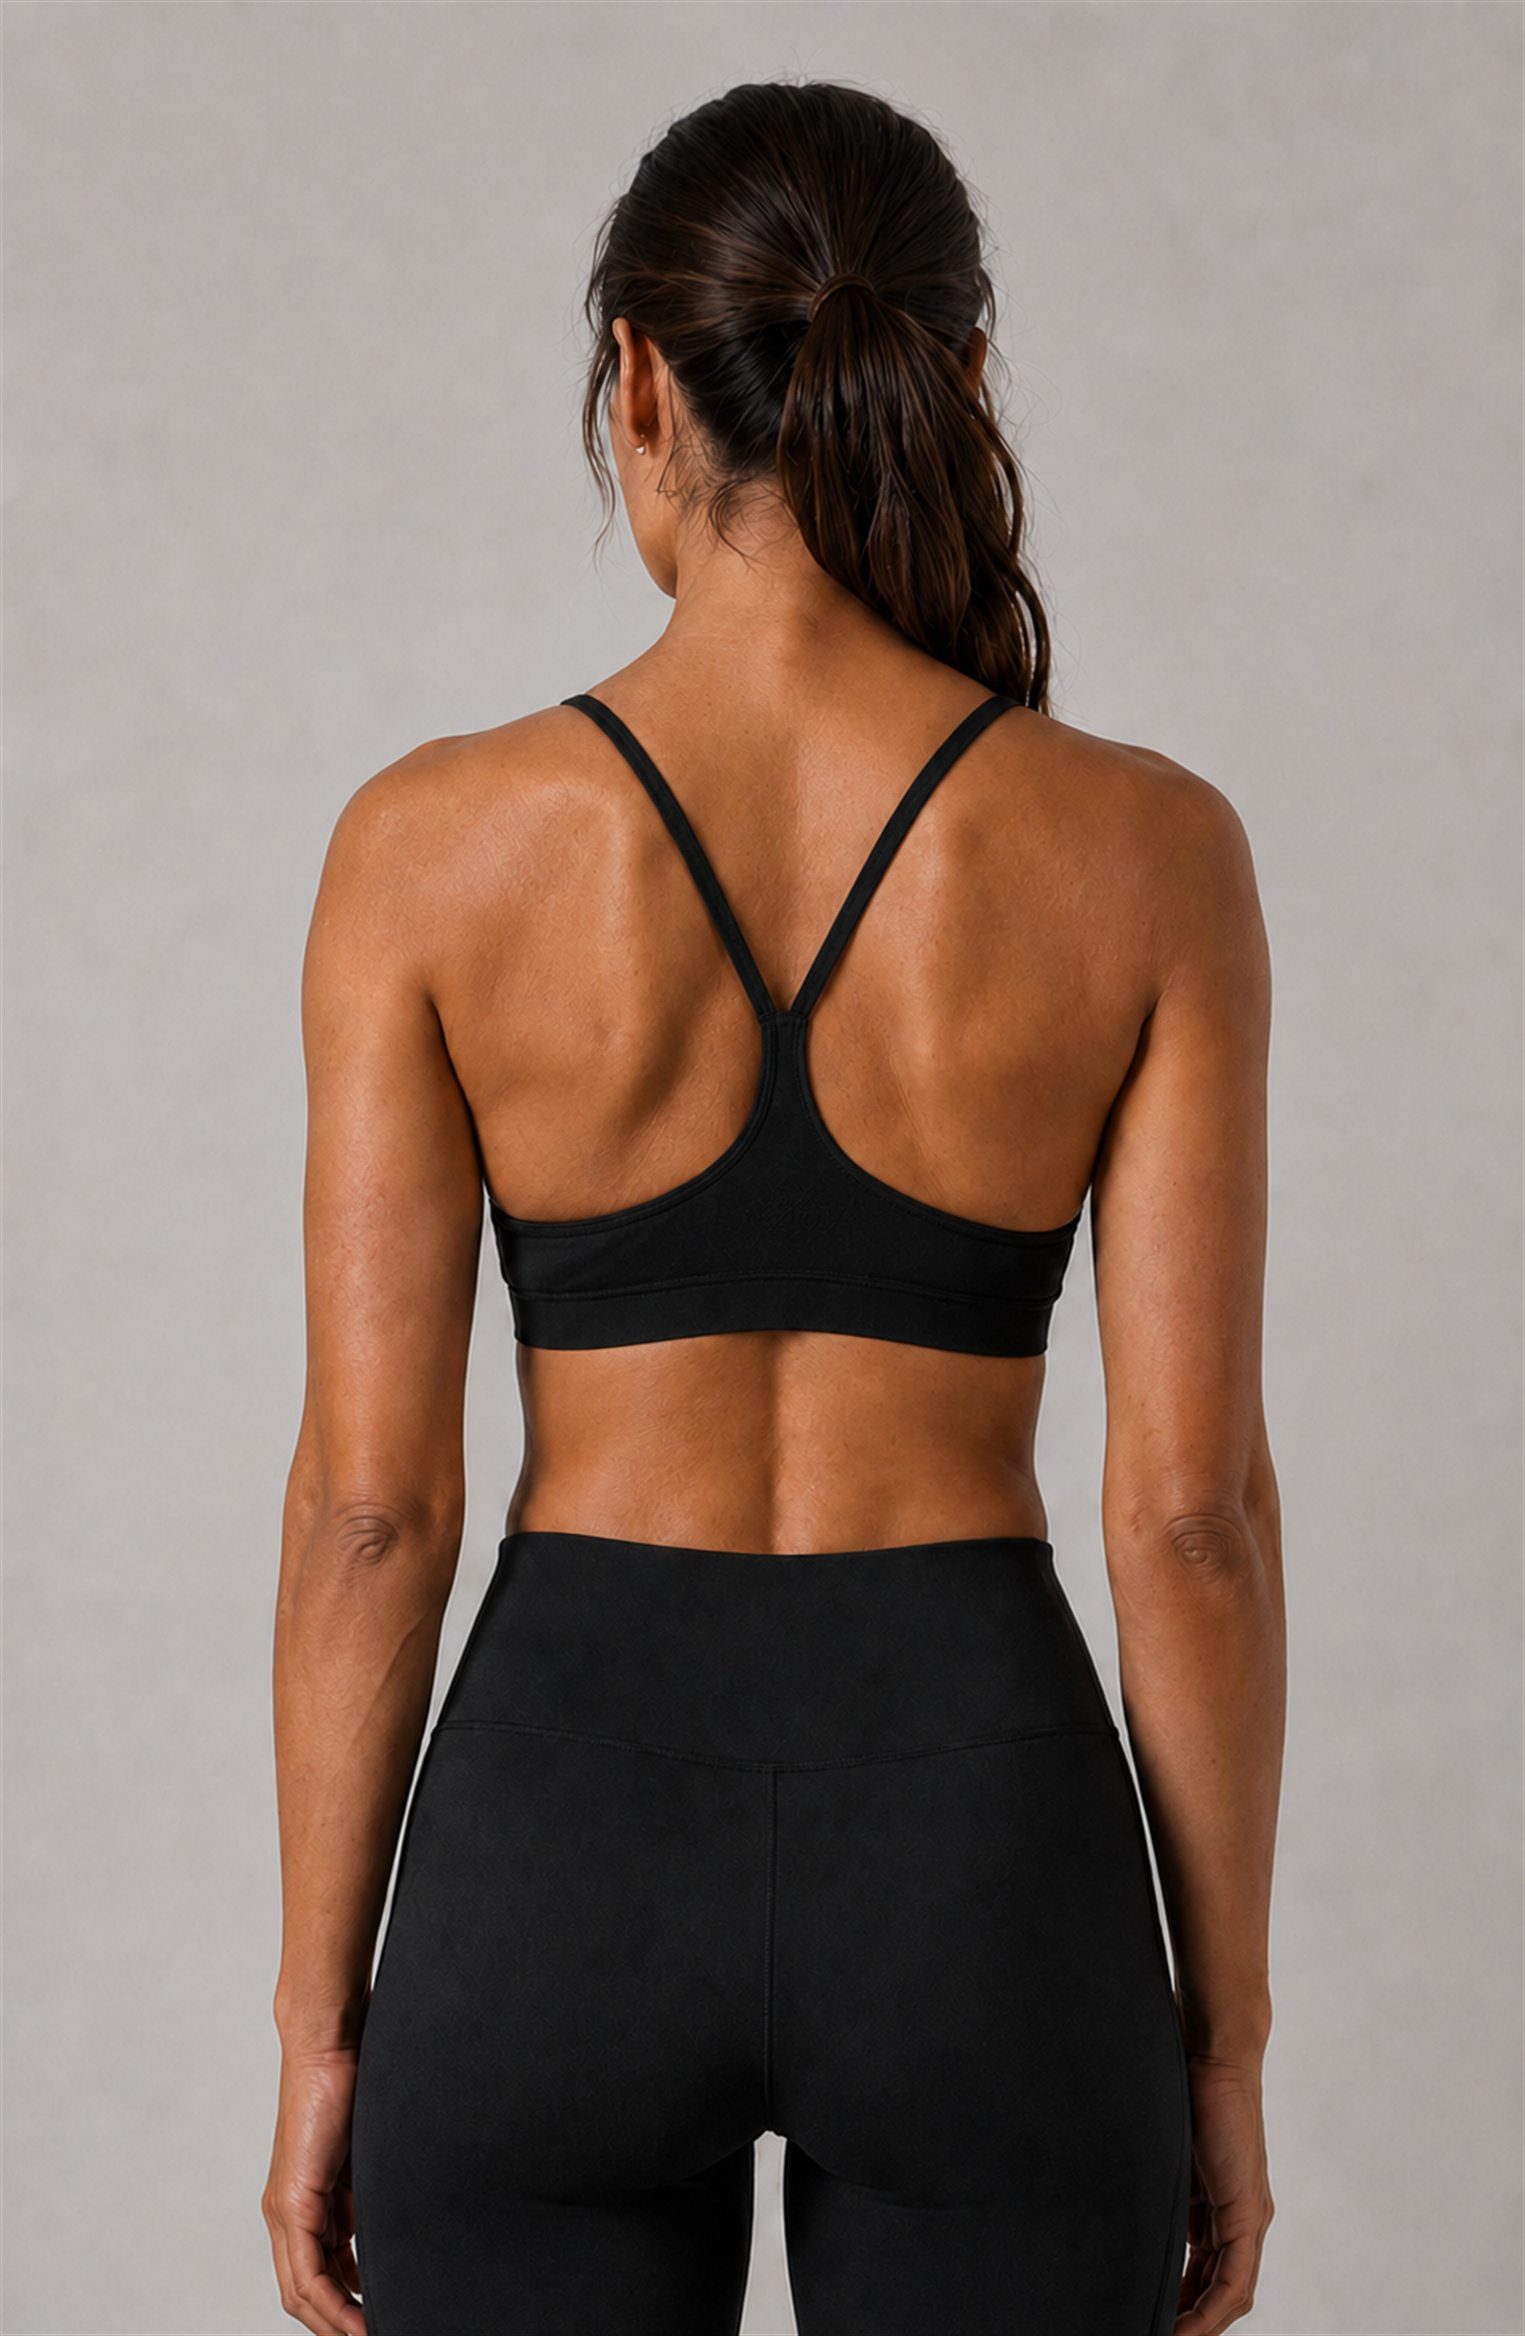
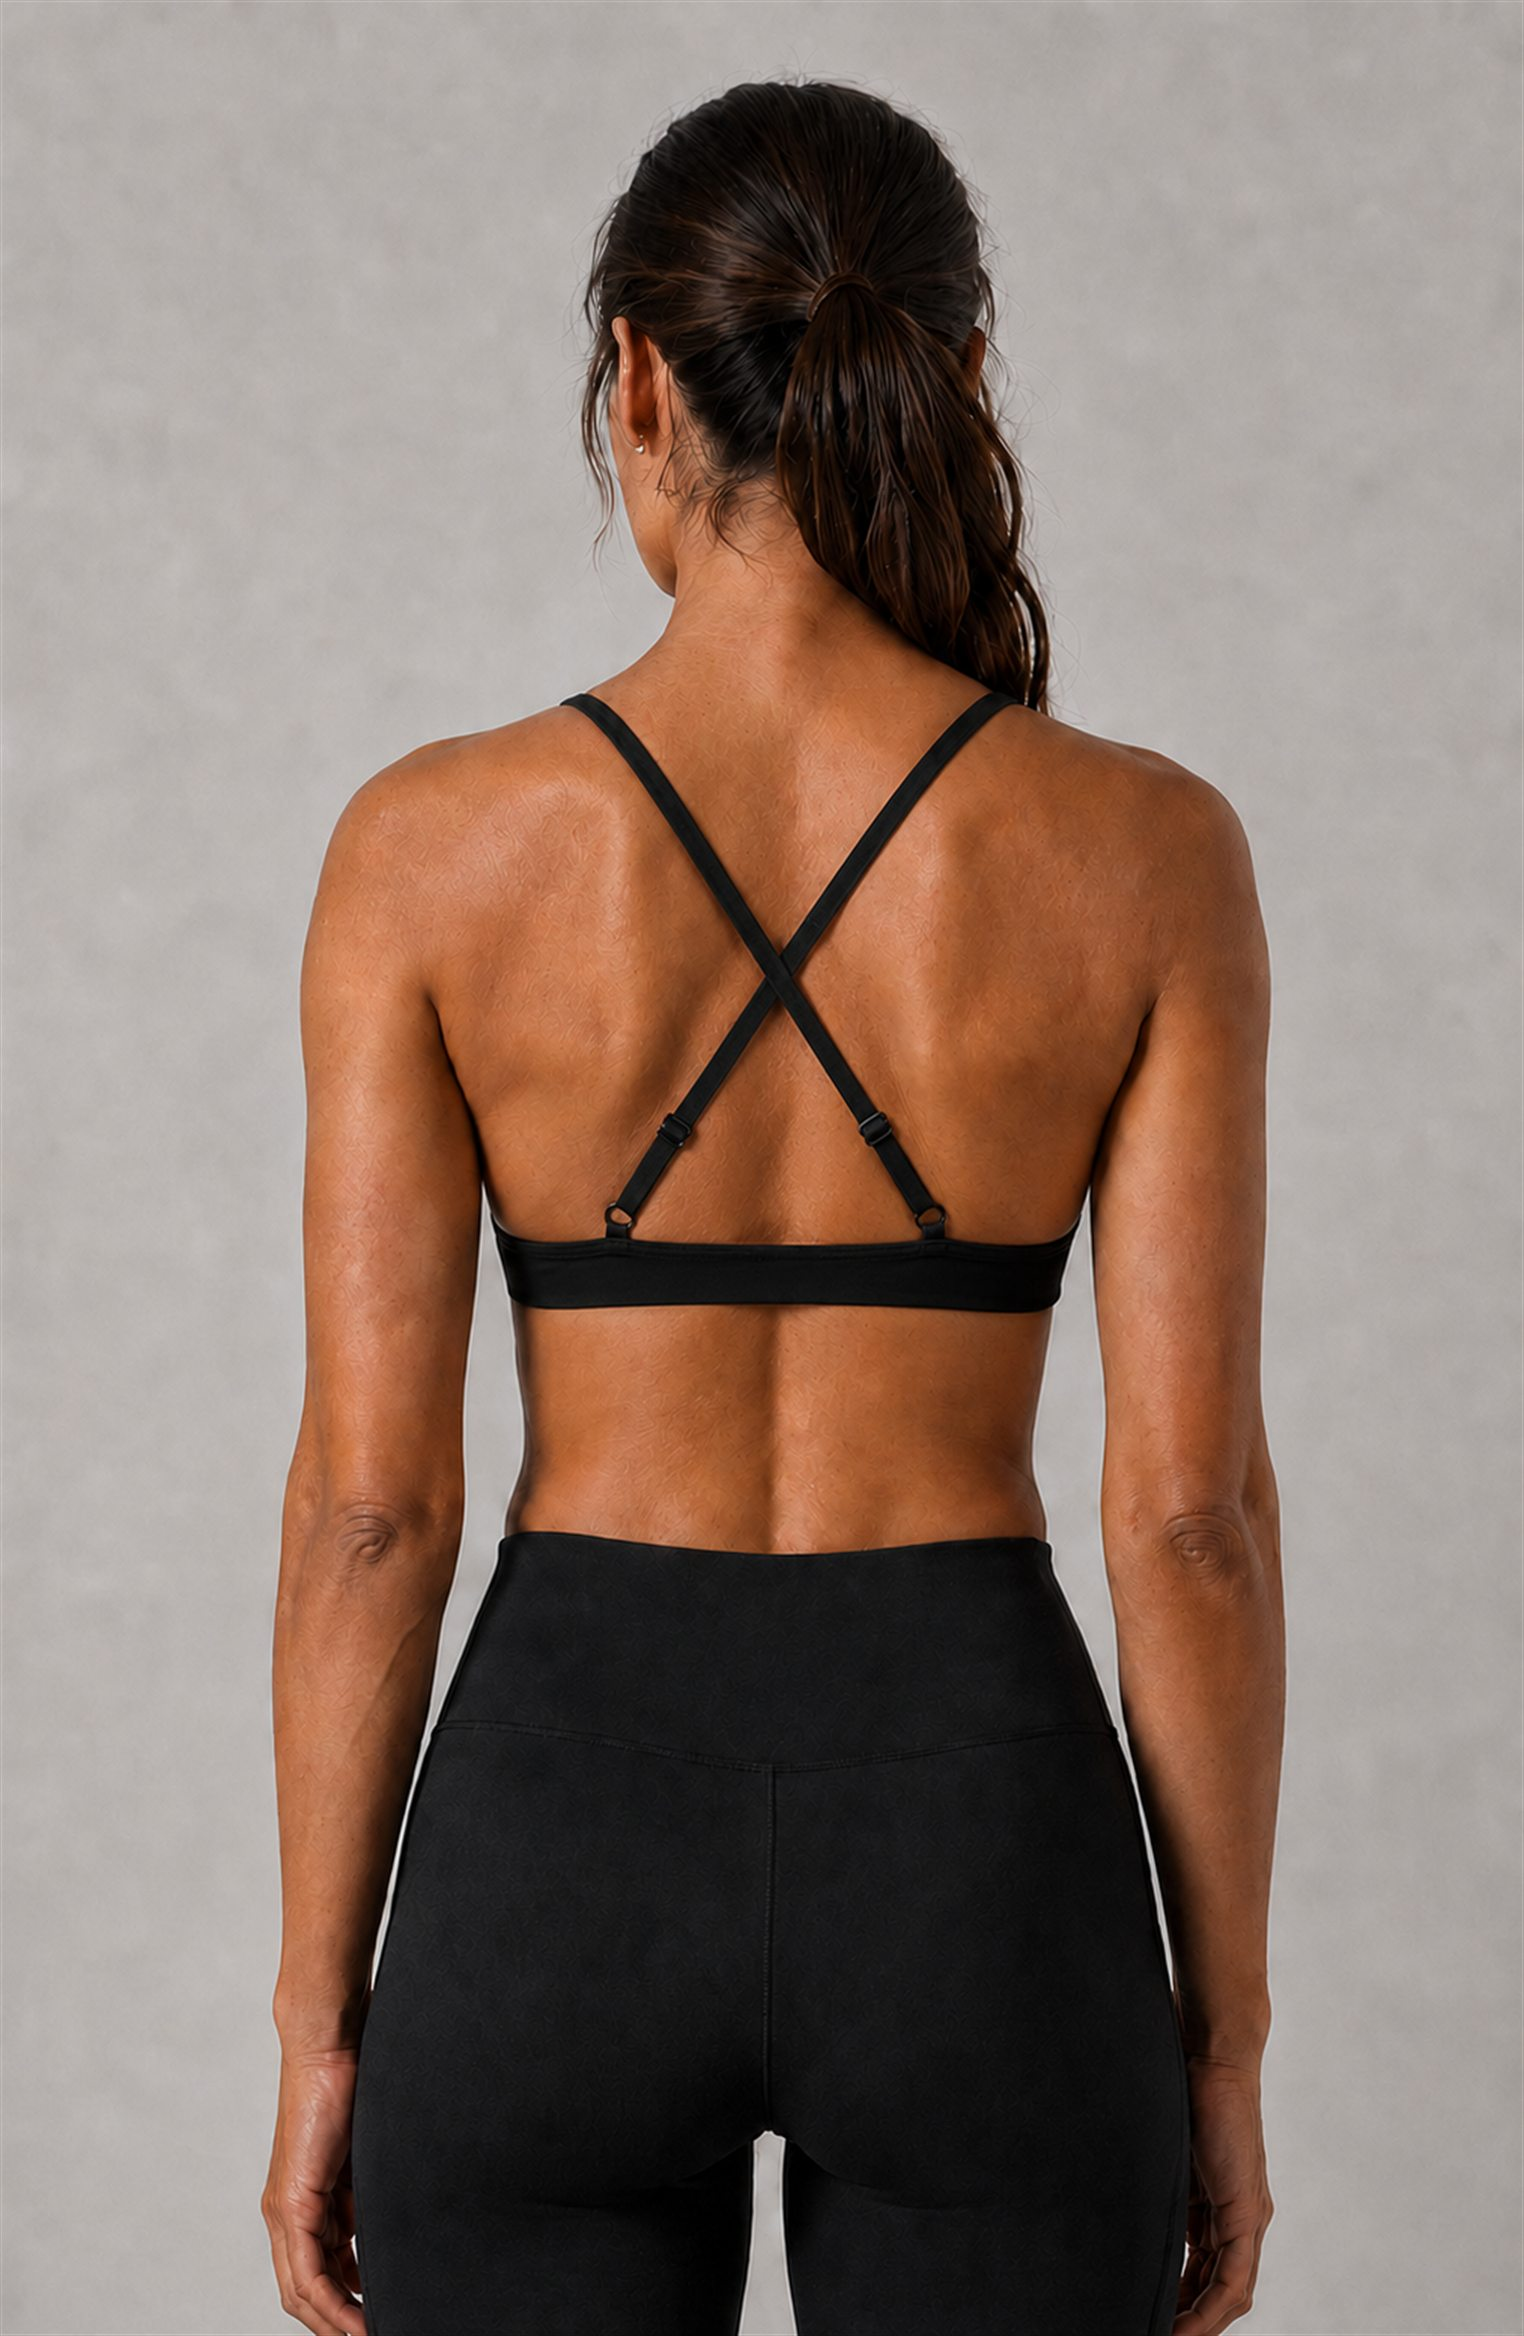
Low Impact Bra: new final set (front, front-angle, back; side kept) - 4 views

Changed region(s): [[0.3084, 0.2812, 0.7093, 0.5938], [0.3701, 0.1562, 0.4009, 0.1875]]

diff --git a/product.html b/product.html
@@ -315,7 +315,7 @@ const PRODUCTS={
   'running-leggings-w':{name:'Performance Leggings',gender:"Women's",price:'KES 5,500',priceVal:5500,image:'images/running-leggings-w.jpg',images:['images/running-leggings-w.jpg','images/running-leggings-w-side.jpg','images/running-leggings-w-full-front.jpg','images/running-leggings-w-full-back.jpg','images/running-leggings-w-plus-front.jpg','images/running-leggings-w-plus-front-angle.jpg','images/running-leggings-w-plus-back.jpg'],sizes:['S','M','L','XL','XXL'],desc:"Engineered for road and trail. A contoured waistband defines the line without compressing. A pattern-cut panel lifts the silhouette at the top of the glute, while graduated compression holds the line without flattening shape. Four-way stretch fabric. Flatlock seams.",details:['Contoured waistband — defines without compressing','Pattern-cut lift at the top of the glute','Graduated compression through thigh and core','Four-way stretch performance fabric','Flatlock seam construction',]},
   'flared-leggings-w':{name:'Flared Leggings',gender:"Women's",price:'KES 5,600',priceVal:5600,image:'images/flared-leggings-w.jpg',images:['images/flared-leggings-w.jpg','images/flared-leggings-w-back.jpg'],sizes:['S','M','L','XL','XXL'],tallSizes:['S (Tall)','M (Tall)','L (Tall)','XL (Tall)','XXL (Tall)'],desc:"Studio-ready with a relaxed straight-leg silhouette — loose from the waistband down through the leg. A high-rise contoured waistband defines the waistline and stays put through full range of motion. A pattern-cut panel lifts the silhouette at the top of the glute, while graduated compression holds the line without flattening shape. Buttery-soft four-way stretch fabric. Suited to yoga, pilates, barre and everyday wear. Also available in Tall lengths.",details:['High-rise contoured waistband — defines without compressing','Pattern-cut lift at the top of the glute','Graduated compression through thigh and core','Buttery-soft four-way stretch fabric','Relaxed straight-leg cut — loose from the waistband through the leg','Regular (34" inseam) — up to 5\'8" / 173cm · Tall (37" inseam) — 5\'9" / 175cm and above',]},
   'high-impact-bra':{name:'High Impact Sports Bra',gender:"Women's",price:'KES 4,950',priceVal:4950,image:'images/high-impact-bra.jpg',images:['images/high-impact-bra.jpg','images/high-impact-bra-back.jpg','images/high-impact-bra-front-angle.jpg','images/high-impact-bra-side.jpg','images/high-impact-bra-plus-front.jpg','images/high-impact-bra-plus-front-angle.jpg','images/high-impact-bra-plus-back.jpg'],sizes:['S','M','L','XL','XXL'],desc:"Maximum support for running, HIIT, and high-intensity training. Wide underband and reinforced straps keep everything locked in place. Moisture-wicking inner lining and removable padding.",details:['Maximum support rating','Wide reinforced underband','Adjustable back strap','Removable moulded padding','Moisture-wicking inner lining',]},
-  'low-impact-bra':{name:'Low Impact Sports Bra',gender:"Women's",price:'KES 4,950',priceVal:4950,image:'images/low-impact-bra.jpg',images:['images/low-impact-bra.jpg','images/low-impact-bra-side.jpg','images/low-impact-bra-back.jpg'],sizes:['S','M','L','XL','XXL'],desc:"Lightweight and breathable for yoga, pilates, stretching, and low-intensity sessions. Scoop neck with a clean racerback silhouette. Removable padding, soft-touch fabric.",details:['Light support rating','Racerback silhouette','Scoop neckline','Removable padding','Soft-touch four-way stretch fabric',]},
+  'low-impact-bra':{name:'Low Impact Sports Bra',gender:"Women's",price:'KES 4,950',priceVal:4950,image:'images/low-impact-bra.jpg',images:['images/low-impact-bra.jpg','images/low-impact-bra-front-angle.jpg','images/low-impact-bra-side.jpg','images/low-impact-bra-back.jpg'],sizes:['S','M','L','XL','XXL'],desc:"Lightweight and breathable for yoga, pilates, stretching, and low-intensity sessions. Scoop neck with a clean racerback silhouette. Removable padding, soft-touch fabric.",details:['Light support rating','Racerback silhouette','Scoop neckline','Removable padding','Soft-touch four-way stretch fabric',]},
   'jacket-w':{name:"Women's Jacket",gender:"Women's",price:'KES 7,500',priceVal:7500,image:'images/jacket-w.jpg',images:['images/jacket-w.jpg','images/jacket-w-front-angle.jpg','images/jacket-w-back-angle.jpg','images/jacket-w-back.jpg'],sizes:['S','M','L','XL','XXL'],desc:"A versatile training jacket built for warm-ups, cool-downs, and everything in between. Lightweight with a clean zip-front silhouette. Thumb holes, two side pockets, and a slightly relaxed fit.",details:['Full-length zip front','Thumb hole cuffs','Two side zip pockets','Relaxed training fit','Lightweight performance fabric',]},
   'tshirt-w':{name:"Women's T-Shirt",gender:"Women's",price:'KES 4,500',priceVal:4500,image:'images/tshirt-w.jpg',images:['images/tshirt-w.jpg','images/tshirt-w-front-angle.jpg','images/tshirt-w-back.jpg','images/tshirt-w-detail.jpg','images/tshirt-w-movement.jpg'],sizes:['S','M','L','XL','XXL'],desc:"A clean training tee built for movement. Lightweight moisture-wicking fabric, a relaxed fit that stays in place, and a slightly cropped hem. Wear it to the gym, on a run, or straight after.",details:['Moisture-wicking fabric','Relaxed fit with cropped hem','Crew neck','Flatlock shoulder seams',]},
   'tshirt-m':{name:"Men's T-Shirt",gender:"Men's",price:'KES 4,500',priceVal:4500,image:'images/tshirt-m.jpg',images:['images/tshirt-m.jpg','images/tshirt-m-side.jpg','images/tshirt-m-back.jpg'],sizes:['S','M','L','XL','XXL'],desc:"A training tee that does its job without getting in the way. Sweat-wicking fabric, a clean regular fit, and a slightly dropped hem. Equally at home in the gym or on the way there.",details:['Moisture-wicking fabric','Regular fit with dropped hem','Crew neck','Flatlock shoulder seams',]},
